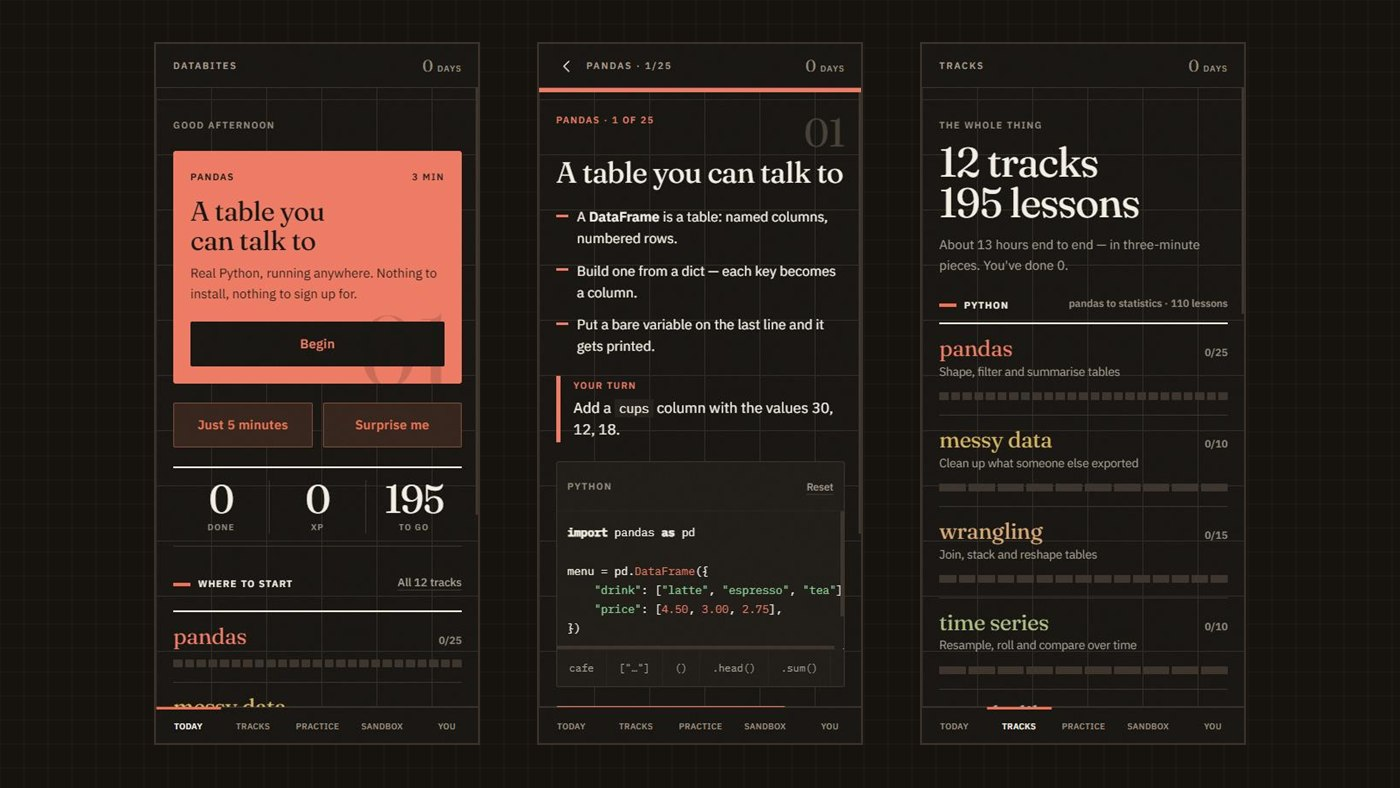
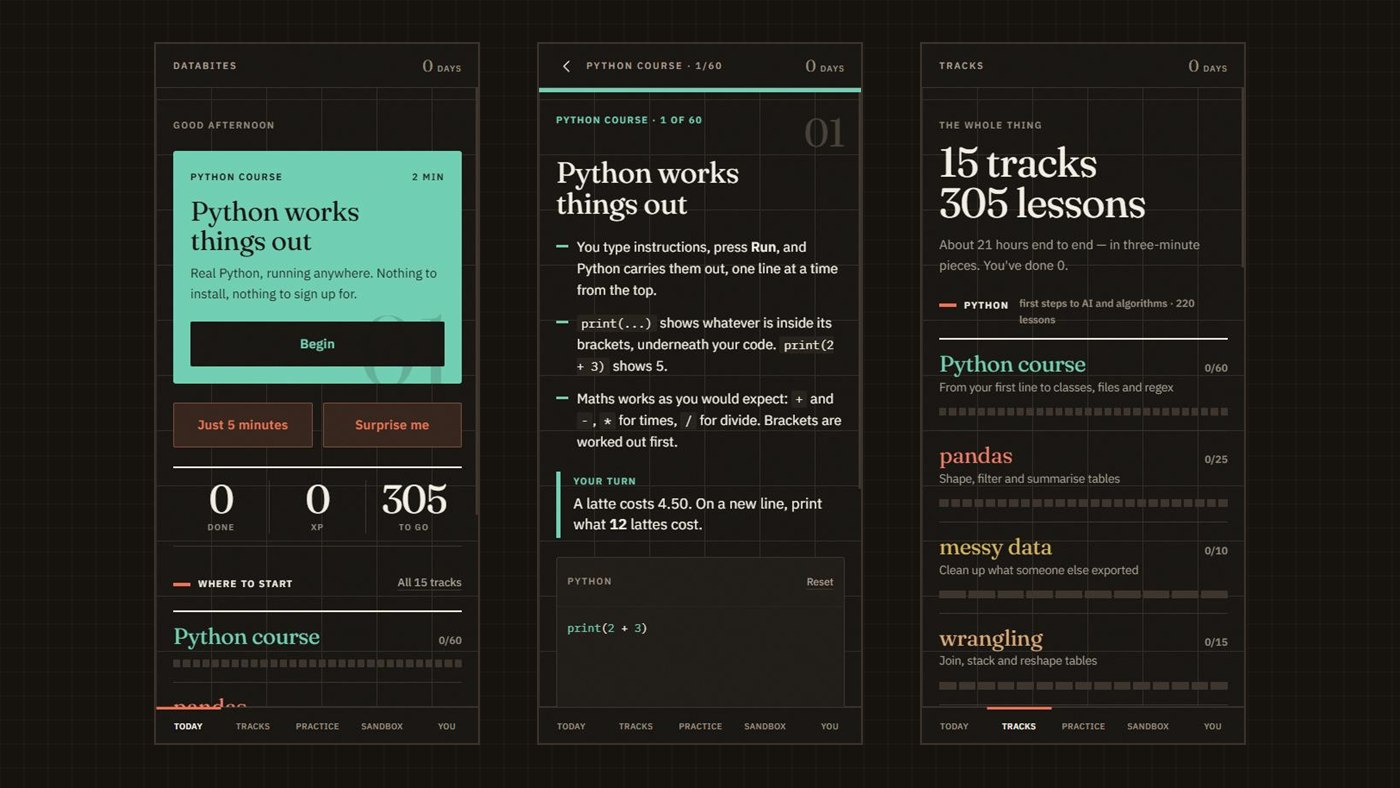
DataBites brought up to date; empty-filter note readable under the glow
305 lessons across 15 tracks (60-lesson Python course, AI, algorithms, statistics), 139 practice problems, PL-300 prep with 107 questions. New phone screenshots from the live app. Commit count dropped from the build note, since later commits no longer carry the co-author line; 'co-written from the first commit' stays true. Home 'leads with one thing' rather than 'is one button'. .grid-empty moves to fg-dim, which holds 4.5:1 at the centre of the cursor glow.

diff --git a/js/app.js b/js/app.js
@@ -869,18 +869,18 @@
             liveLabel: 'Open DataBites',
             repo: 'https://github.com/TheLordBass/databites',
             gallery: [
-                { src: 'assets/shots/databites.jpg', cap: 'On a phone, which is what it was built for. Home is one next lesson, each lesson is three bullets and an editor, and the tracks screen shows how far there is to go.', alt: 'Three DataBites phone screens: the home screen with one next lesson and a Begin button, a pandas lesson with three short bullets above a Python editor, and the tracks screen showing 12 tracks and 195 lessons.' }
+                { src: 'assets/shots/databites.jpg', cap: 'On a phone, which is what it was built for. Home is one next lesson, each lesson is three bullets and an editor, and the tracks screen shows how far there is to go.', alt: 'Three DataBites phone screens: the home screen with one next lesson and a Begin button, the first Python course lesson with three short bullets above a Python editor, and the tracks screen showing 15 tracks and 305 lessons.' }
             ],
             blocks: [
                 { h: 'What it is', p: [
-                    'A learning app that runs entirely in the browser. It began as pandas lessons I could do on my phone and kept growing: there are now 195 lessons across 12 tracks, 110 in Python (10 of them statistics), 35 in SQL, 35 in DAX (10 of those on Power BI modelling) and 15 across three projects, plus 124 practice problems, 50 Python, 50 SQL and 24 DAX.',
+                    'A learning app that runs entirely in the browser. It began as pandas lessons I could do on my phone and kept growing: there are now 305 lessons across 15 tracks: 220 in Python (a 60-lesson course for complete beginners, plus pandas, statistics, AI and algorithms), 35 in SQL, 35 in DAX (10 of those on Power BI modelling) and 15 across three projects. On top of that are 139 practice problems and a PL-300 prep section with 107 exam-style questions for the Power BI Data Analyst exam.',
                     'Nothing gets installed and nothing leaves the device. Your code and your progress stay in the browser, and after the first load it works with no connection. That first load pulls down about 25MB of Python runtime, so it is worth doing on wifi once.'
                 ]},
                 { h: 'Why I built it', p: [
-                    'Most data tutorials are built as long sessions that assume you can hold an hour of context in your head at once. That does not match how a lot of people learn, me included. So the home screen is one button, the next lesson. Each concept gets three bullets at most before you type something, and getting stuck is one tap away from the answer with no penalty for taking it. A five minute session is still worth doing, and you are far more likely to come back tomorrow.'
+                    'Most data tutorials are built as long sessions that assume you can hold an hour of context in your head at once. That does not match how a lot of people learn, me included. So the home screen leads with one thing, the next lesson. Each concept gets three bullets at most before you type something, and getting stuck is one tap away from the answer with no penalty for taking it. A five minute session is still worth doing, and you are far more likely to come back tomorrow.'
                 ]},
                 { h: 'How it was built', p: [
-                    'With Claude, Anthropic\u2019s AI model. All 39 of its commits were co-written with Claude, and a lot of the code came out of that back and forth, the DAX engine included. It would feel wrong to put it on a portfolio without saying so.',
+                    'With Claude, Anthropic\u2019s AI model. It was co-written with Claude from the first commit, and a lot of the code came out of that back and forth, the DAX engine included. It would feel wrong to put it on a portfolio without saying so.',
                     'What was mine was the reason for it and the direction: what it should teach, what to leave out, and how a lesson should feel on a phone. All of that came from the specific ways I kept bouncing off other tutorials.'
                 ]},
                 { h: 'The DAX engine', p: [

diff --git a/index.html b/index.html
@@ -513,7 +513,7 @@
             <article class="card project-card is-featured has-shot" data-category="python" data-project="databites">
                 <a class="project-shot" href="#" data-project="databites" aria-label="Open write-up: DataBites">
                     <img src="assets/shots/databites.jpg" width="1400" height="788" loading="lazy" decoding="async"
-                         alt="Three DataBites phone screens: the home screen with one next lesson and a Begin button, a pandas lesson with three short bullets above a Python editor, and the tracks screen showing 12 tracks and 195 lessons.">
+                         alt="Three DataBites phone screens: the home screen with one next lesson and a Begin button, the first Python course lesson with three short bullets above a Python editor, and the tracks screen showing 15 tracks and 305 lessons.">
                 </a>
                 <div class="project-top">
                     <span class="project-kind">Pyodide · SQLite · JavaScript</span>
@@ -521,8 +521,8 @@
                 </div>
                 <p class="project-desc">
                     Short lessons that run in the browser with nothing to install. It started as pandas
-                    on my phone and is now 195 lessons across Python, SQL and DAX, plus 124 practice
-                    problems. I built it with Claude as my coding partner, because most tutorials
+                    on my phone and is now 305 lessons across Python, SQL and DAX, 139 practice
+                    problems and PL-300 exam prep. I built it with Claude as my coding partner, because most tutorials
                     assume you can hold an hour of context in your head at once, and some days I can't.
                 </p>
                 <ul class="tag-list"><li>Python</li><li>SQL</li><li>DAX</li><li>Pyodide</li></ul>

diff --git a/css/style.css b/css/style.css
@@ -675,7 +675,9 @@ main { position: relative; z-index: 1; }
 .project-viz::before  { content: "● ";   color: var(--green); }
 .project-repo:hover, .project-viz:hover { color: var(--accent); border-color: var(--accent); text-decoration: none; }
 
-.grid-empty { text-align: center; color: var(--fg-faint); padding: 2.5rem 0; }
+/* fg-dim, not fg-faint: this sits on the open background, where the cursor
+   glow can pass behind it, and fg-faint dips under 4.5:1 at the glow's centre. */
+.grid-empty { text-align: center; color: var(--fg-dim); padding: 2.5rem 0; }
 .grid-empty::before { content: "-- "; }
 .grid-empty::after  { content: " --"; }
 
